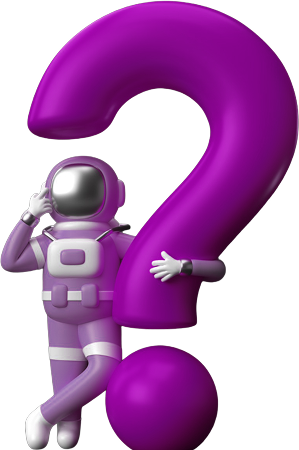
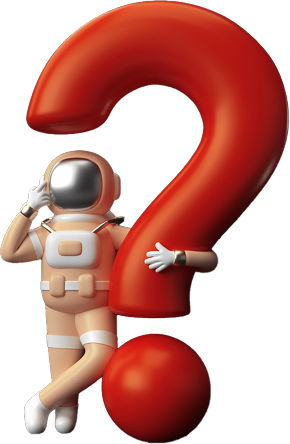
update for sagar changes settings moonbet theme

diff --git a/src/pages/Settings.jsx b/src/pages/Settings.jsx
@@ -158,7 +158,7 @@ const Settings = () => {
           animate={{ opacity: 1, y: 0 }}
           className="flex flex-col lg:flex-row justify-between items-start lg:items-center gap-4 mb-8"
         >
-          <h1 className="text-2xl lg:text-4xl font-bold text-white">
+          <h1 className="text-2xl lg:text-3xl font-bold text-white">
             Settings
           </h1>
           <div className="flex flex-wrap gap-3">

diff --git a/src/theme/moonbet-theme.css b/src/theme/moonbet-theme.css
@@ -60,6 +60,9 @@
   );
 
   --cta3-green-gradient: linear-gradient(180deg, #aaf23f 0%, #28c203 100%);
+  --cta3-dark-hover-button:
+    linear-gradient(0deg, rgba(0, 0, 0, 0.35) 0%, rgba(0, 0, 0, 0.35) 100%),
+    linear-gradient(180deg, #8BD32A 0%, #1F9503 100%);
   /* ===========================
      MOON BADGES (VIP Tiers)
   ============================ */
